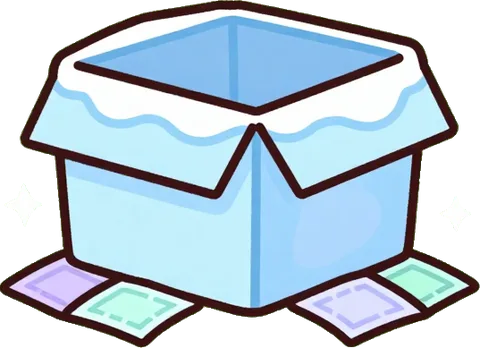
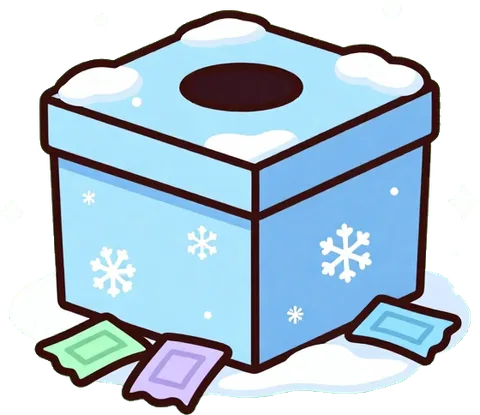
feat(ichiban): empty-state art is the same raffle box with torn tickets
Claude-Session: https://claude.ai/code/session_01SemYkQLkTmSDDeYUKQcPZG

diff --git a/ichiban/index.html b/ichiban/index.html
@@ -35,7 +35,7 @@
     <div class="pile" id="pile"></div>
 
     <div class="empty-state" id="emptyState" hidden>
-      <img class="empty-state__art" src="img/empty.webp?v=8ffd0707" alt="" width="480" height="348">
+      <img class="empty-state__art" src="img/empty.webp?v=6f9c46a8" alt="" width="480" height="415">
       <p class="empty-state__text">抽完了!</p>
       <button class="btn btn--primary" id="refillBtn" type="button">重新鋪一桌</button>
     </div>
